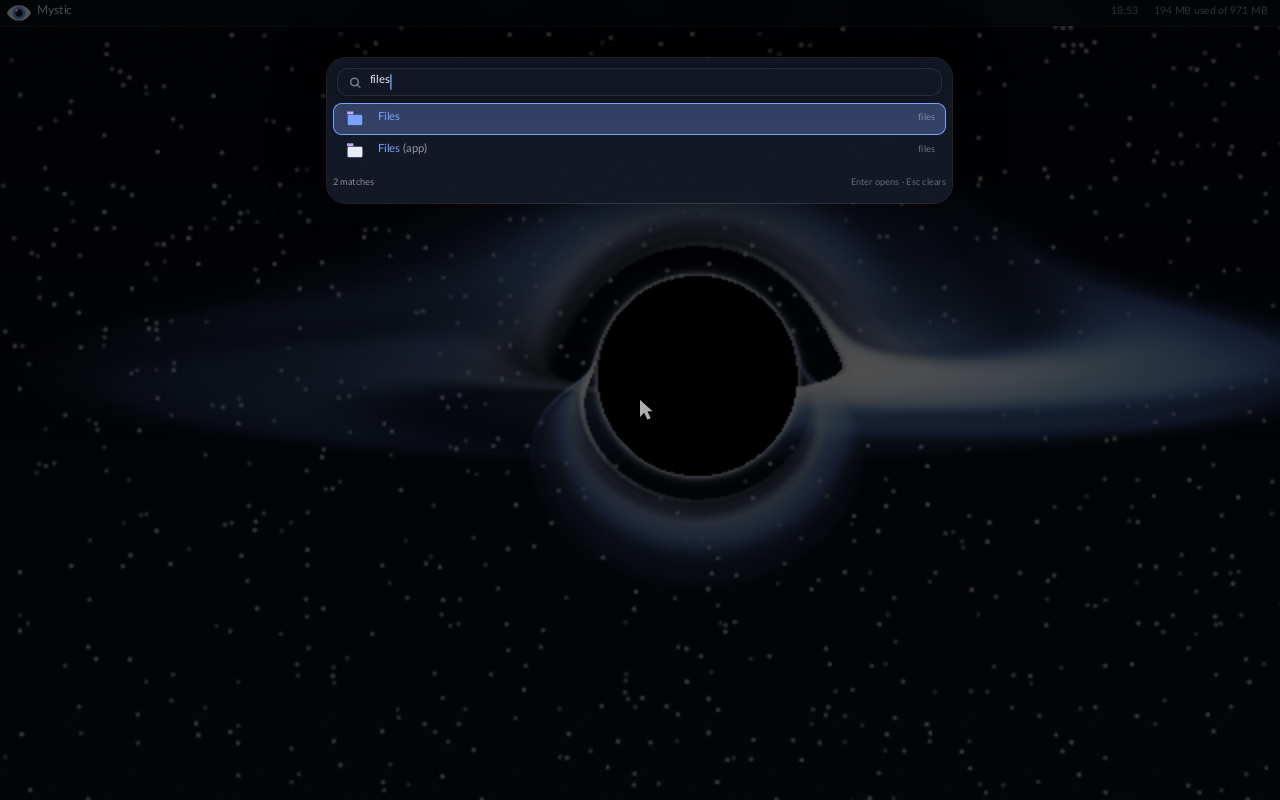
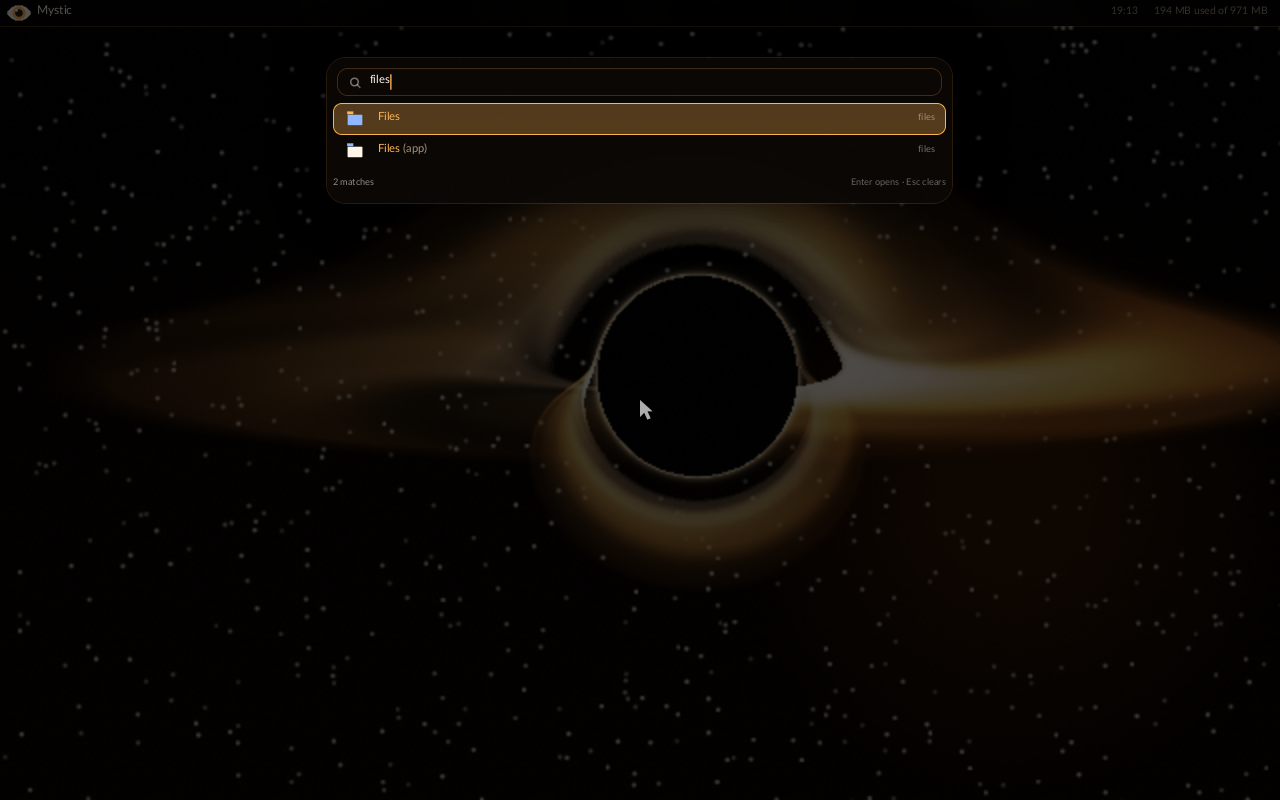
docs: screenshots in the Eclipse theme

Changed region(s): [[0.25, 0.0625, 1.0, 0.6875], [0.25, 0.4062, 0.4062, 0.5], [0.0, 0.0, 0.0312, 0.0312]]

diff --git a/src/wmsrv.c b/src/wmsrv.c
@@ -479,7 +479,7 @@ static void sbx_plan_print(const SbxPlan *p, FILE *f) {
             break;
         }
         case SBX_CHOWN:
-            fprintf(f, "  %2d %s chown -R %s %d:%d (only if the user differs), mode %04o\n",
+            fprintf(f, "  %2d %s chown -R %s %d:%d (only if the owner differs), mode %04o\n",
                     i + 1, who, s->dst, s->uid, s->uid, s->mode);
             break;
         case SBX_BIND:
@@ -526,6 +526,53 @@ static int sbx_target_verdict(int lstat_err, int type, int want_dir) {
     if (want_dir) return type == SBX_TYPE_DIR ? SBX_T_DIR : SBX_T_NO_TYPE;
     return type == SBX_TYPE_FILE ? SBX_T_FILE : SBX_T_NO_TYPE;
 }
+
+/* One "key = value" line of a bundle manifest, pure text -> WmApp, so the host
+ * harness can prove what a manifest means without a filesystem.
+ *
+ * The one line that WEAKENS the sandbox is spelled out here and in
+ * docs/SECURITY.md:
+ *
+ *   default (no line): unshare(CLONE_NEWPID) + a fresh procfs, so the app sees
+ *     itself and its own children only, and cannot signal the desktop or any
+ *     other app.
+ *   procs = yes: no pid namespace; the host /proc is bound read-only instead,
+ *     so the app can see every process name and command line on the machine
+ *     (it still cannot read another uid's environ/mem/fd, cannot signal another
+ *     uid, and still has its own mount namespace, tmpfs and appdata, and no
+ *     network).
+ *
+ * Only an app whose purpose is to read other processes needs it - sysmon today.
+ * A value other than "yes" is ignored rather than guessed at.
+ */
+static void sbx_manifest_line(WmApp *a, const char *line) {
+    char buf[256];
+    snprintf(buf, sizeof(buf), "%s", line ? line : "");
+    char *nl = strchr(buf, '\n');
+    if (nl) *nl = 0;
+    char *cr = strchr(buf, '\r');
+    if (cr) *cr = 0;
+    char *eq = strchr(buf, '=');
+    if (!eq) return;
+    *eq = 0;
+    char *k = buf, *v = eq + 1;
+    while (*k == ' ') k++;
+    while (*v == ' ') v++;
+    char *ke = k + strlen(k);
+    while (ke > k && ke[-1] == ' ') *--ke = 0;
+    /* trailing whitespace in the value is a typo, not part of a name: strip it
+     * so a manifest saved with CRLF still means what it says */
+    char *ve = v + strlen(v);
+    while (ve > v && (ve[-1] == ' ' || ve[-1] == '\t')) *--ve = 0;
+
+    if (!strcmp(k, "name")) snprintf(a->name, sizeof(a->name), "%s", v);
+    else if (!strcmp(k, "desc")) snprintf(a->desc, sizeof(a->desc), "%s", v);
+    else if (!strcmp(k, "exec")) snprintf(a->exe, sizeof(a->exe), "%s", v);
+    else if (!strcmp(k, "network") && !strcmp(v, "host")) a->net = 1;
+    else if (!strcmp(k, "audio") && !strcmp(v, "yes")) a->audio = 1;
+    else if (!strcmp(k, "procs") && !strcmp(v, "yes")) a->procs = 1;
+}
+
 
 /* Everything below this line is the server: Linux only. */
 #ifndef MYSTIC_SANDBOX_PLAN
@@ -624,21 +671,22 @@ static int make_shm(WmClient *c) {
     }
 
     size_t bytes = (size_t)c->stride * (size_t)c->maxh * 4;
-    /* A jailed buffer lives in a tmpfs that is smaller than the machine: read
-     * the free space before touching a page. ftruncate() beyond a tmpfs limit
-     * succeeds and the SIGBUS only arrives on the first write - which would be
-     * this memset, in the desktop. Fail the client instead. The size is
+    /* A buffer lives on a tmpfs that is smaller than the machine (9.2 MiB per
+     * app inside the jail, 128 MiB for the host's /dev/shm). Read the free
+     * space before touching a page: ftruncate() beyond a tmpfs limit succeeds
+     * and the SIGBUS only arrives on the first write - which would be this
+     * memset, in the desktop. Fail the client instead. The per-app size is
      * 2 buffers + 1 MiB, so a second window of the same app fits and a third
      * gets one honest line rather than a dead compositor. */
-    if (c->jailed) {
+    {
         struct statfs sfs;
         if (statfs(c->shm_host, &sfs) == 0) {
             unsigned long long free_b = (unsigned long long)sfs.f_bsize *
                                         (unsigned long long)sfs.f_bfree;
             if ((unsigned long long)bytes > free_b) {
                 fprintf(stderr, "wms: %s: a %zu B buffer does not fit in the "
-                                "%llu B left in its /dev/shm\n",
-                        c->id[0] ? c->id : "client", bytes, free_b);
+                                "%llu B left in %s\n",
+                        c->id[0] ? c->id : "client", bytes, free_b, c->shm_host);
                 close(fd);
                 unlink(c->shm_host);
                 c->shm_path[0] = 0;
@@ -818,10 +866,11 @@ int wms_start(void) {
         return -1;
     }
     listen(listen_fd, 8);
-    /* connect() needs write permission on the socket inode, and apps now run as
-     * uid 1000. This is a single-tenant system - every local process is one of
-     * our sandboxed apps - so the socket is connectable, while what is behind
-     * it (the filesystem) is not: see the jail. */
+    /* connect() needs write permission on the socket inode, and apps run as
+     * their own sandbox uids (2000.., see the plan above). This is a
+     * single-tenant system - every local process is one of our sandboxed apps -
+     * so the socket is connectable, while what is behind it (the filesystem,
+     * every other app's pixels) is not: see docs/SECURITY.md. */
     chmod(WM_SOCKET, 0666);
     fcntl(listen_fd, F_SETFL, fcntl(listen_fd, F_GETFL, 0) | O_NONBLOCK);
     fprintf(stderr, "wms: listening on %s\n", WM_SOCKET);
@@ -1105,37 +1154,7 @@ static int scan_root(WmApp *out, int n, int max, const char *root, int from_imag
 
         char line[256];
         while (fgets(line, sizeof(line), f)) {
-            char *nl = strchr(line, '\n');
-            if (nl) *nl = 0;
-            char *eq = strchr(line, '=');
-            if (!eq) continue;
-            *eq = 0;
-            char *k = line, *v = eq + 1;
-            while (*k == ' ') k++;
-            while (*v == ' ') v++;
-            char *ke = k + strlen(k);
-            while (ke > k && ke[-1] == ' ') *--ke = 0;
-            if (!strcmp(k, "name")) snprintf(a->name, sizeof(a->name), "%s", v);
-            else if (!strcmp(k, "desc")) snprintf(a->desc, sizeof(a->desc), "%s", v);
-            else if (!strcmp(k, "exec")) snprintf(a->exe, sizeof(a->exe), "%s", v);
-            else if (!strcmp(k, "network") && !strcmp(v, "host")) a->net = 1;
-            else if (!strcmp(k, "audio") && !strcmp(v, "yes")) a->audio = 1;
-            /* 'procs = yes' is the one manifest line that WEAKENS the sandbox,
-             * so it is spelled out here and in docs/SECURITY.md:
-             *
-             *   default (no line): unshare(CLONE_NEWPID) + a fresh procfs, so
-             *     the app sees itself and its own children only, and cannot
-             *     signal the desktop or any other app.
-             *   procs = yes: no pid namespace; the host /proc is bound
-             *     read-only instead, so the app can see every process name and
-             *     command line on the machine (it still cannot read another
-             *     uid's environ/mem/fd, cannot signal another uid, and still
-             *     has its own mount namespace, tmpfs, appdata and no network).
-             *
-             * Only an app whose purpose is to read other processes needs it -
-             * sysmon today. A value other than 'yes' is ignored rather than
-             * guessed at, and the rest of the line's spelling must match. */
-            else if (!strcmp(k, "procs") && !strcmp(v, "yes")) a->procs = 1;
+            sbx_manifest_line(a, line);
         }
         fclose(f);
         if (!a->name[0]) snprintf(a->name, sizeof(a->name), "%s", a->id);

diff --git a/docs/SECURITY.md b/docs/SECURITY.md
@@ -38,7 +38,8 @@ reports, and a jailed client's buffer is created inside that uid's tmpfs. A
 `HELLO` that names another app is logged and ignored — the bundle id used for
 paths is the one recorded at launch.
 
-*Released* when the bundle has no process left. Two facts are tracked per
+*Released* when the bundle has no process left (checked whenever the pool is
+swept: on a launch or a disconnect). Two facts are tracked per
 entry: the launch's pid (the keeper below) and the pid of each connected
 client. `sbx_cred_gc()` drops the ones the kernel says are gone and frees the
 slot — and with it, unmounts the two tmpfs instances. A bundle that dies before
@@ -141,13 +142,14 @@ They have to be the *same instances* on both sides of the jail:
   app's `/dev/shm/<leaf>` only because the tmpfs was mounted before the fork.
 
 Both are unmounted when the bundle's last process is gone
-(`sbx_jail_forget`), and a leftover from a crash is replaced on the next
-launch (`umount2(MNT_DETACH)` first).
+(`sbx_jail_forget`, from the pool sweep), and a leftover from a crash is
+replaced on the next launch (`umount2(MNT_DETACH)` first).
 
 ### The jail root is not writable by the app
 
 Every directory in the skeleton is created `root:root 0755`; the only writable
-places are the appdata bind (`/root`) and the two tmpfs mounts. That is a DAC
+places are the appdata bind (`/root`), the two tmpfs mounts, and the device
+nodes bound over `/dev` (`/dev/null`, `/dev/urandom`, `/dev/snd`). That is a DAC
 fact, and it is **checked at launch** rather than assumed: after the credential
 drop, the app itself runs
 
@@ -288,7 +290,11 @@ desktop from an app, not the app from a compromised kernel.
    is gone when the app exits. Persistent state belongs in `/root` (the
    appdata bind), and that app should be moved there. The same is true of
    anything else that treated `/dev/shm` as storage.
-8. **Two bridges deliberately cross the boundary**: the file picker (files in
+8. **A desktop that dies without cleaning up leaves that bundle's tmpfs
+   mounted** until the bundle is launched again or the machine reboots
+   (mounts live in the desktop's namespace). It is bounded - two per bundle,
+   at most 9 MiB each at 1280x800 - and the next launch detaches it.
+9. **Two bridges deliberately cross the boundary**: the file picker (files in
    `<jail>/tmp`) and the clipboard (`<jail>/run/mystic/clipboard.sock`, served
    by the desktop). Both are one-way or text-only, and both are the reason the
    app can be useful at all. They are the first place to look if this sandbox
@@ -308,7 +314,7 @@ $ zig cc -target x86_64-linux-musl -Os -static -Isrc \
 
 $ zig cc -Wall -Wextra -Isrc .work/sandbox/plan_harness.c -o .work/sandbox/plan.exe
 $ ./.work/sandbox/plan.exe
-        ... 39 checks, 0 failure(s)   (exit 0)
+        ... 44 checks, 0 failure(s)   (exit 0)
 ```
 
 The harness `#define MYSTIC_SANDBOX_PLAN` and `#include`s the **real**

diff --git a/README.md b/README.md
@@ -14,6 +14,9 @@ runs on a framebuffer, no GPU, no X11, no Wayland.
 
 ![Mystic OS with the black hole wallpaper](docs/screenshots/black-hole.png)
 
+*The Eclipse theme on the black hole wallpaper. The eye in the top-left corner
+opens the launcher — it is more alive than it looks.*
+
 ---
 
 ## What it does
